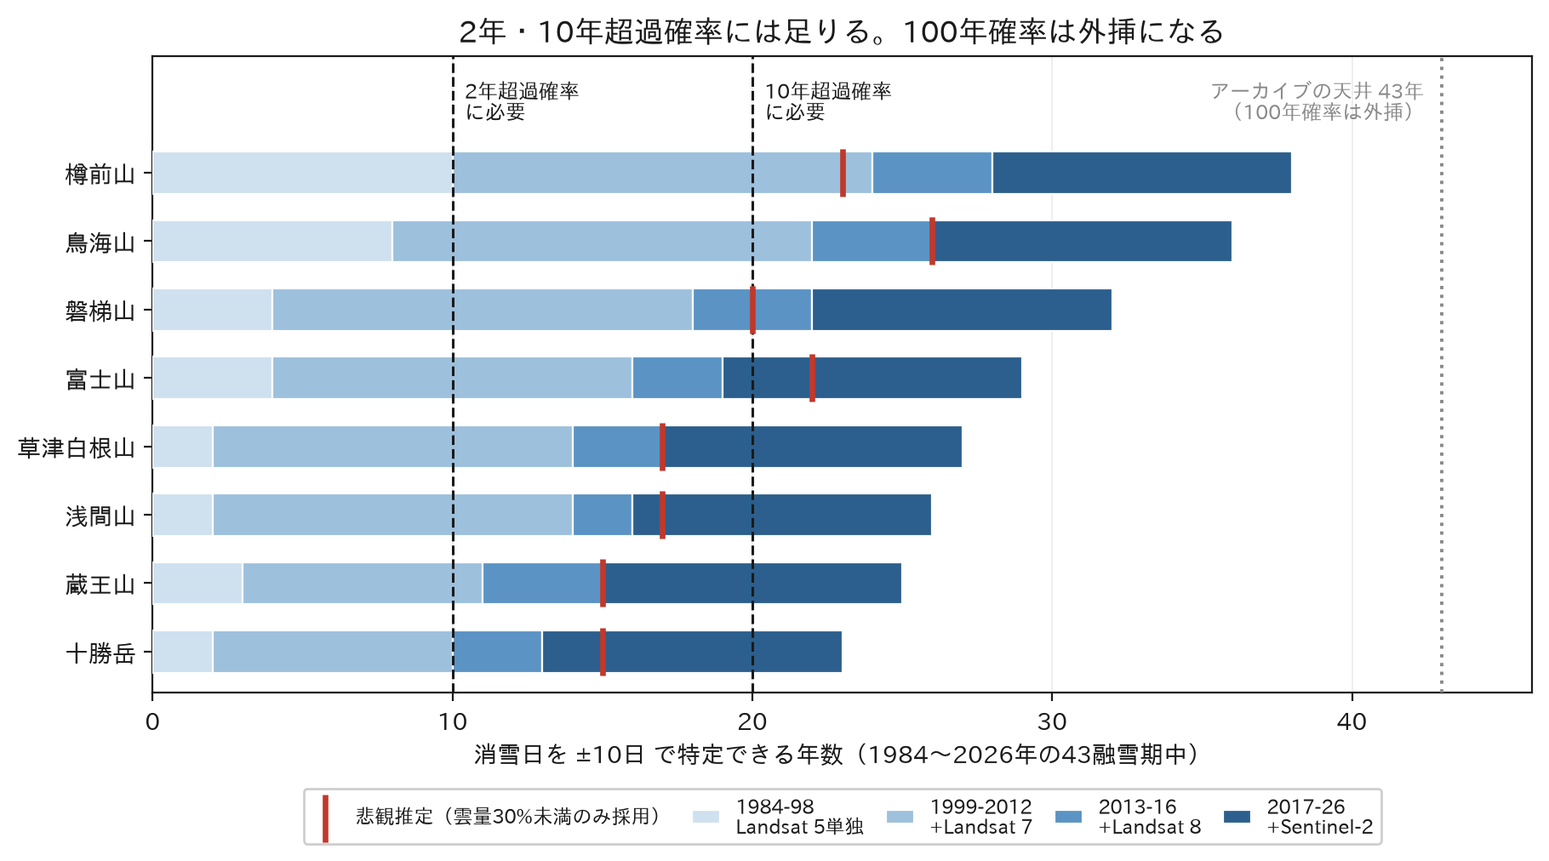
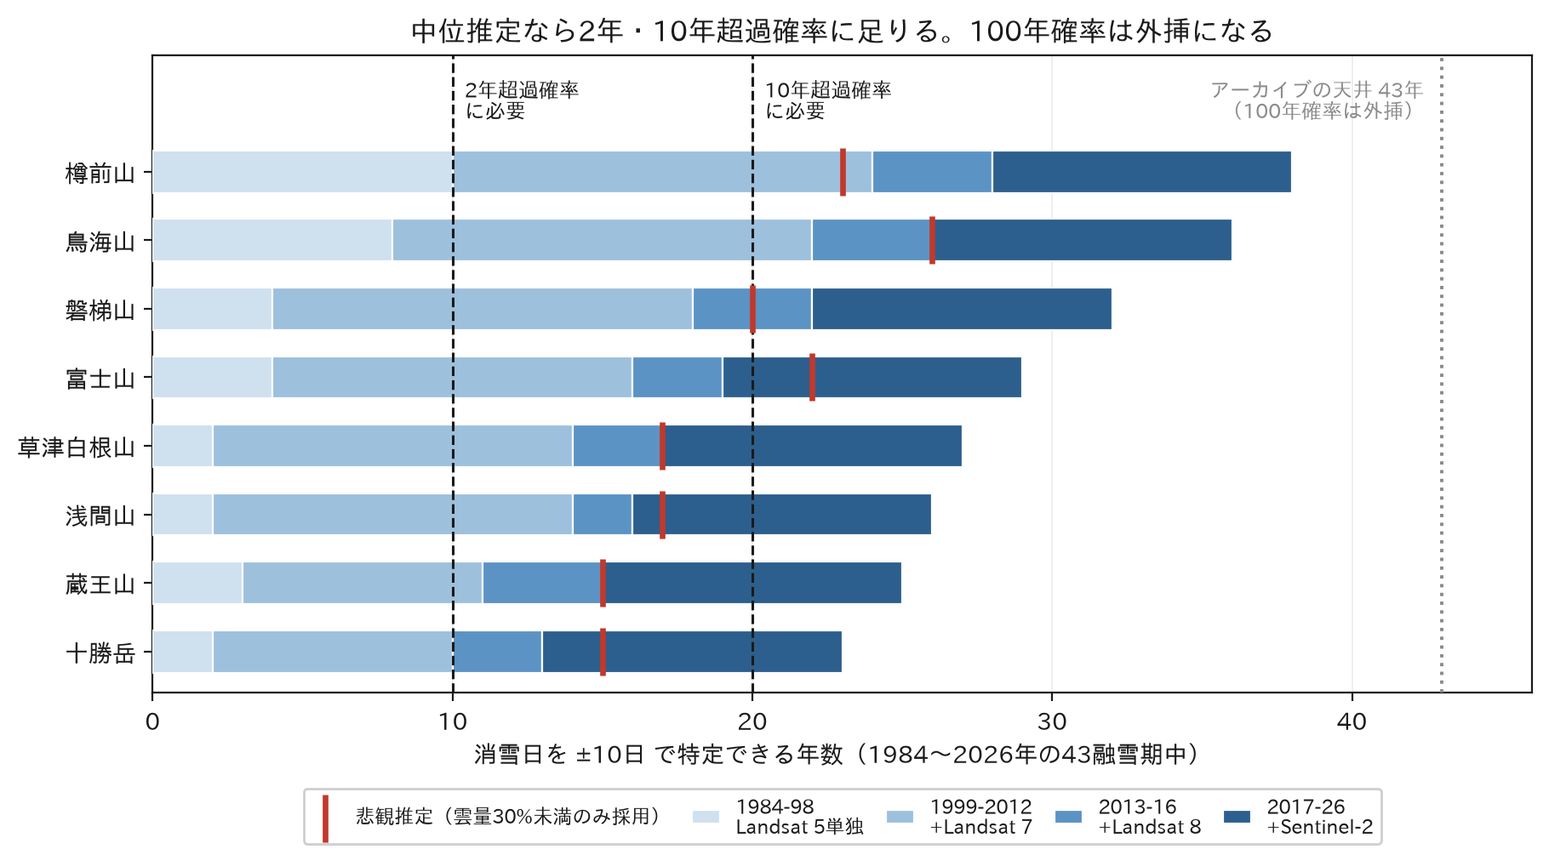
テーマ2 様式4: 第3サイクルの指摘4件に対応
図版が入った直後のサイクル。指摘4件はいずれも図が入ったことで新たに生じた
食い違いだった。

【中】
- T-26: ②が様式4のディレクション「衛星データを活用したサービスを創出する
  内容であること」に一語も応答していなかった（②本文に「衛星」「データ」
  「サービス」が0件。①③④⑤は含む）。冒頭を「応募例『平時の災害リスク評価』
  を衛星データで行う」に置換し、同設問内の3箇所を縮めて相殺（②は500字のまま）
- T-27: ②本文が「積雪水量」を語るのに図2の縦軸が「年最大積雪深」で、同じ
  「約29%」が両方に付いていた。これを追った結果、図2の実測点そのものが
  原典に無い派生値だったことが分かった——原典が標高別に載せているのは
  積雪水量 550/390/106 mm で、図はこれを実測密度で割って積雪深にしていたが、
  密度 252/419/401 kg/m³ と標高の対応順が原典で確認できていない（順を
  取り違えると1,500mの値が2.18mにも1.37mにもなる）。図2を積雪水量[mm]軸に
  作り直し、実測点は原典の値そのものにした。計画側は計画・報告書がともに
  使う密度350 kg/m³ で換算し、その旨を図中に注記。キャプションに量を明示し、
  01_検討経緯.md 8.5節の自白リストに「標高別は水量で書くこと」を追記した
- T-28: 提出直前チェック7が、質問4の回答が「算入する」で着地手順1（④の表1
  ごと落とす）を適用した状態では必ず不合格になった。チェック7に分岐を足し、
  図表の割当表の④の行にも同じ但し書きを添えた

【軽微】
- T-29: 図3の見出しが無条件の断定なのに、同じ図の悲観推定マーカーは8本中
  4本が20年を割っていた。「中位推定なら」を冠して再生成した

あわせて図2の外挿部を破線で明示し（実線が全域に引かれていて破線が隠れていた）、
密度換算の注記が凡例に重なっていたのを右下へ移した。

着地手順2の実測値を481→487字に更新（②の図表が31→37字になったため測り直した）。
現在の字数: ①491 ②500 ③491 ④492 ⑤494。

レビュー記録に第3サイクルの節と、このサイクルの学び（レビューアは原典を
精査しないので、指摘の当否と修正の内容は自分で確かめること）を追記した。

Claude-Session: https://claude.ai/code/session_01ByiR9fmzyGadXHEVGXwJpb

diff --git a/theme2_ライフライン復旧/poc/src/make_figures_t2.py b/theme2_ライフライン復旧/poc/src/make_figures_t2.py
@@ -100,26 +100,43 @@ def fig1():
 # 図2 山麓6観測所からの外挿と、火口高度の実測との食い違い
 # ============================================================
 def fig2():
+    """縦軸は積雪水量[mm]で統一する。
+
+    原典（防災科研×新潟大の共同研究報告書）が標高別に載せているのは**積雪水量**であり、
+    標高別の積雪深は載っていない。水量を密度で割って積雪深に直すこともできるが、
+    実測密度 252/419/401 kg/m³ と標高1,500/1,600/1,700m の対応順が原典で確認できて
+    いないため、その換算はしない（順を取り違えると点が上下に大きく動く）。
+    設問②の本文も「積雪水量」で書いてあるので、本文と図の量をここで一致させる。
+
+    計画側（回帰式・火口の想定値）は積雪深なので、密度350 kg/m³ で水量に換算する。
+    350は蔵王計画と報告書がともに使っている一律値（8.5節）。線形変換なので図の形は
+    変わらず、計画の土俵の上で比較していることになる。
+    """
+    RHO = 350.0    # kg/m³。計画・報告書がともに使う一律値。1m の雪 = 350mm の水
+
     # 蔵王計画 図2-21 の6観測所（標高m, 年最大積雪深cm）。8.5節で numpy.polyfit により
     # 回帰係数 y=0.2139x+8.5516（R²=0.767）を再現済み
     st = np.array([[38.9, 17], [86, 18], [152.5, 50], [245, 92], [265, 34], [525, 121]])
     a, b = 0.2139, 8.5516
 
-    # 防災科研×新潟大の現地測量（2023年3月9日）。標高別の積雪深[m]
-    uav = np.array([[1500, 1.37], [1600, 0.93], [1700, 0.42]])
-    basin_mean = 1.10          # 流域平均積雪深[m]（面積0.271km²）
-    plan_at_crater = 3.81      # 蔵王計画の火口高度の想定積雪深[m]
+    # 防災科研×新潟大の現地測量（2023年3月9日）。標高別の積雪水量[mm]＝原典の実測値そのもの
+    uav = np.array([[1500, 550], [1600, 390], [1700, 106]])
+    basin_mean = 1.10 * RHO        # 流域平均積雪深1.10m（面積0.271km²）→ 385mm
+    plan_at_crater = 3.81 * RHO    # 計画の火口高度の想定積雪深3.81m → 1,334mm
 
     fig, ax = plt.subplots(figsize=(8.2, 5.6))
     x = np.linspace(0, 1850, 200)
-    ax.plot(x, (a * x + b) / 100.0, color=BASE, lw=2.0, zorder=3,
+    # 回帰の範囲内は実線、その外（外挿）は破線。実線を全域に引くと破線が隠れる
+    inr, out = x <= 525, x >= 525
+    ax.plot(x[inr], (a * x[inr] + b) / 100.0 * RHO, color=BASE, lw=2.2, zorder=3,
             label="計画の回帰式（6観測所から）")
-    ax.plot(x[x > 525], (a * x[x > 525] + b) / 100.0, color=BASE, lw=2.0, ls="--", zorder=3)
+    ax.plot(x[out], (a * x[out] + b) / 100.0 * RHO, color=BASE, lw=2.0,
+            ls=(0, (6, 3)), zorder=3, label="同・火口高度への外挿")
     ax.axvspan(525, 1850, color=BASE, alpha=0.055, zorder=0)
-    ax.text(1190, 0.28, "回帰に使った観測所より上\n（約1,220mの外挿）",
+    ax.text(1190, 95, "回帰に使った観測所より上\n（約1,220mの外挿）",
             ha="center", fontsize=9, color=BASE)
 
-    ax.scatter(st[:, 0], st[:, 1] / 100.0, s=52, color=BASE, zorder=5,
+    ax.scatter(st[:, 0], st[:, 1] / 100.0 * RHO, s=52, color=BASE, zorder=5,
                label="回帰に使った気象庁6観測所（38.9〜525m）")
     ax.scatter(uav[:, 0], uav[:, 1], s=95, marker="D", color=ACCENT, zorder=6,
                label="火口高度の現地測量（標高別）")
@@ -136,11 +153,14 @@ def fig2():
 
     # 実測の傾きが逆であることを示す補助線
     ax.plot(uav[:, 0], uav[:, 1], color=ACCENT, lw=1.4, ls=":", zorder=5)
-    ax.text(1600, 1.02, "標高が上がるほど減る\n（強風と疎林化）", ha="center", va="top",
+    ax.text(1600, 355, "標高が上がるほど減る\n（強風と疎林化）", ha="center", va="top",
             fontsize=9.2, color=ACCENT)
 
-    ax.set_xlabel("標高 [m]"); ax.set_ylabel("年最大積雪深 [m]")
-    ax.set_xlim(-60, 1900); ax.set_ylim(0, 4.4)
+    ax.text(1880, 18, "計画側は密度350 kg/m³ で水量に換算（計画・報告書が使う一律値）",
+            fontsize=8.4, color=MUTED, ha="right", va="bottom")
+
+    ax.set_xlabel("標高 [m]"); ax.set_ylabel("年最大積雪水量 [mm]")
+    ax.set_xlim(-60, 1900); ax.set_ylim(0, 1540)
     ax.grid(alpha=0.25, lw=0.6)
     ax.legend(loc="upper left", fontsize=8.6, framealpha=0.95)
     ax.set_title("外挿の先に実測があり、直線から外れている", fontsize=12.5, fontweight="bold")
@@ -189,8 +209,10 @@ def fig3():
     ax.grid(axis="x", alpha=0.25, lw=0.6, zorder=0)
     ax.legend(loc="upper center", bbox_to_anchor=(0.5, -0.135), fontsize=8.4,
               ncol=5, framealpha=0.95, columnspacing=1.1, handlelength=1.4)
-    ax.set_title("2年・10年超過確率には足りる。100年確率は外挿になる",
-                 fontsize=12.5, fontweight="bold")
+    # 見出しは中位推定に対する結論であることを明示する。悲観推定では4火山が20年を割るので、
+    # 無条件の断定にすると同じ図の赤マーカーと食い違って見える
+    ax.set_title("中位推定なら2年・10年超過確率に足りる。100年確率は外挿になる",
+                 fontsize=12.0, fontweight="bold")
     fig.tight_layout()
     fig.savefig(os.path.join(_OUT, "t2_fig3_years.png"), dpi=200, bbox_inches="tight")
     plt.close(fig)

diff --git a/theme2_ライフライン復旧/12_提出版_様式4.md b/theme2_ライフライン復旧/12_提出版_様式4.md
@@ -26,19 +26,21 @@
 
 ## ２．課題の妥当性と解決への貢献度（本文500字／500字程度）
 
-本提案はテーマ2の応募例「平時の災害リスク評価」に当たる。守る対象は下流のインフラで、作り直すのはその設計外力である。
+本提案はテーマ2の応募例「平時の災害リスク評価」を衛星データで行う。守る対象は下流のインフラで、作り直すのはその設計外力である。
 
-融雪型火山泥流の計画対象量は、積雪水量に厳密に比例する。蔵王計画の算定過程を追うと、泥流総量は「0.4×融雪水量÷(0.4−渓床勾配係数)」に整理でき、公表8ケースの値を誤差0.44%以内で再現できる。融雪水量は熱で融かしうる量と雪の量の小さい方で決まり、全10ケースで後者が8〜14分の1と小さい。
+融雪型火山泥流の計画対象量は、積雪水量に厳密に比例する。蔵王計画の算定を追うと、泥流総量は「0.4×融雪水量÷(0.4−渓床勾配係数)」に整理でき、公表8ケースを誤差0.44%以内で再現できる。融雪水量は熱で融かしうる量と雪の量の小さい方で決まり、全10ケースで後者が8〜14分の1と小さい。
 
 その積雪水量が外挿で与えられている。蔵王計画は標高38.9〜525mの6観測所の回帰式を約1,220m上の火口へ延ばす。計画の図にある道路管理者の観測点（標高800〜1,100m）も回帰に使われず、直線より3〜4割低い。
 
 現地測量は外挿を否定する。防災科学技術研究所と新潟大学の共同研究報告書によれば、蔵王川源頭部で4冬期続けた観測で、積雪水量は標高1,300〜1,400mで最大となり、以高では強風と疎林化で減少した。流域平均は計画値の約29%である。
 
-この差は判断を変える。十勝岳では同じ噴火規模でも、積雪深54.6cmを境に「現況施設で処理可能」と「溢流・氾濫する」が入れ替わる。
+この差は判断を変える。十勝岳では同じ噴火規模でも、積雪深54.6cmを境に「現況施設で処理可能」と「溢流・氾濫する」が反転する。
 
-> ［図表1点］**作成済み** `poc/out/fig/t2_fig2_extrapolation.png`。蔵王計画の回帰式（6観測所・38.9〜525m）と外挿線に、火口高度の現地測量（標高別・流域平均）と計画が採った想定値を重ねた図。「外挿の先に実測があり、直線から外れている」ことを1枚で示す。道路管理者の観測点は原典の図から数値を読み取れていないため図には入れていない（本文の記述のみ）。
+> ［図表1点］**作成済み** `poc/out/fig/t2_fig2_extrapolation.png`。蔵王計画の回帰式（6観測所・38.9〜525m）と外挿線に、火口高度の現地測量（標高別・流域平均）と計画が採った想定値を重ねた図。「外挿の先に実測があり、直線から外れている」ことを1枚で示す。
+> **縦軸は本文と同じ積雪水量[mm]に統一してある。** 原典が標高別に載せているのは積雪水量（1,500/1,600/1,700mで550/390/106 mm）で、標高別の積雪深は載っていない。実測密度252/419/401 kg/m³と標高の対応順が原典で確認できないため、積雪深への換算はしていない。計画側（回帰式・想定値3.81m）は計画と報告書がともに使う密度350 kg/m³で水量に換算し、その旨を図中に注記した。
+> 道路管理者の観測点は原典の図から数値を読み取れていないため図には入れていない（本文の記述のみ）。
 
-図2 山麓6観測所からの標高外挿と、火口高度の実測との食い違い。
+図2 山麓6観測所からの標高外挿と、火口高度の実測との食い違い（積雪水量）。
 
 ## ３．衛星データ活用の有効性（本文491字／500字程度）
 
@@ -118,7 +120,7 @@
 | ① 提案の概要 | 図1 | 監視の全段と、各段の裏付け・限界 | **作成済み** `poc/out/fig/t2_fig1_chain.png` |
 | ② 課題の妥当性 | 図2 | 山麓6観測所からの外挿と火口高度の実測の食い違い | **作成済み** `poc/out/fig/t2_fig2_extrapolation.png` |
 | ③ 衛星データ活用の有効性 | 図3 | 消雪日を特定できる年数の実測（8火山・時代別） | **作成済み** `poc/out/fig/t2_fig3_years.png` |
-| ④ サービスの新規性 | 表1 | 火口周辺の積雪水量を得る手段の比較 | **作成済み**（本文中の表） |
+| ④ サービスの新規性 | 表1 | 火口周辺の積雪水量を得る手段の比較 | **作成済み**（本文中の表）。**質問4が「算入する」なら着地手順1で表1ごと落とし、④は図表なしになる** |
 | ⑤ 実用化による社会発展性 | 図4 | 想定ユーザー・予算の所在・事業化の二段階 | **作成済み** `poc/out/fig/t2_fig4_business.png` |
 
 図版は `poc/src/make_figures_t2.py` が生成する（依存 `matplotlib matplotlib-fontja numpy`、乱数なし＝再現可能）。
@@ -135,7 +137,7 @@
 | 設問 | 本文 | 図表・キャプション | 合算 |
 |---|---|---|---|
 | ① | 491 | 32 | 523 |
-| ② | 500 | 31 | 531 |
+| ② | 500 | 37 | 537 |
 | ③ | 491 | 29 | 520 |
 | ④ | 492 | 137（表1本体を含む） | **629** |
 | ⑤ | 494 | 23 | 517 |
@@ -144,10 +146,10 @@
 
 **回答が「図表の文字も算入する」の場合**: 合算が500字を超えるので削る。**削るのではなく置換して文が破断しないようにする**。
 
-以下の着地値は**手順を実際に適用して測った合算値**である（見込み値ではない）。全設問を適用すると ①479 ②481 ③494 ④492 ⑤496 で、すべて500字以内に収まる。
+以下の着地値は**手順を実際に適用して測った合算値**である（見込み値ではない）。全設問を適用すると ①479 ②487 ③494 ④492 ⑤496 で、すべて500字以内に収まる。
 
 1. **④**（超過が最も大きい）: **表1とそのキャプション行を両方とも落として図表なしにする。** 3列化では届かない（表本体を90字に減らしても 492＋90＋20＝602字）。両方落とすと**合算492字**で着地する（実測）。④の立証は本文の4手法の記述で足りる
-2. **②**: 「計画の図にある道路管理者の観測点（標高800〜1,100m）も回帰に使われず、直線より3〜4割低い。」を削る（外挿の否定は次段落の現地測量で足りる）。**合算481字**で着地（実測）
+2. **②**: 「計画の図にある道路管理者の観測点（標高800〜1,100m）も回帰に使われず、直線より3〜4割低い。」を削る（外挿の否定は次段落の現地測量で足りる）。**合算487字**で着地（実測）
 3. **③**: 「積雪の多い山域で検証例があり、新しいのは手法ではなく、これを火口周辺という誰も測っていない場所に、遡って当てる点である。」を「新しいのは手法ではなく、火口周辺という誰も測っていない場所に遡って当てる点である。」に置換し（−19字）、**あわせてキャプションを**「図3 消雪日を特定できる年数の実測（8火山・カタログ集計）。」→「図3 消雪日を特定できる年数の実測（8火山）。」に短縮する（−7字）。置換だけでは501字で1字超過するため、キャプション短縮を必ず併せること。**合算494字**で着地（実測）
 4. **①**: 「気象庁が積雪深を測る336地点の最高は1,292mで、火口より937〜2,916m低い。」を削る（同じ事実は④にある）。**合算479字**で着地（実測）
 5. **⑤**: 「緊急減災対策砂防計画の対象は29火山、うち積雪火山21座、火山災害警戒地域は50火山179市町村にわたる。」を「緊急減災対策砂防計画の対象は29火山、うち積雪火山21座である。」に**置換**する（削ると述語が消えて文が破断する）。**合算496字**で着地（実測）
@@ -198,6 +200,7 @@
    - (b) **転記後のWordでも各設問を再計測する**（`count_chars.py` と空白・改行の扱いが異なるため、原稿の値をそのまま信じない）
    - (c) 事務局照会の**質問4の回答が「算入する」だった場合は、図表とキャプションを含む合算で判定し、「回答別の着地」節の手順を先に適用してから (a)(b) をやり直す**
 7. 図表が各設問1点を超えていないこと（図と表は同じ枠）。**4図とも作成済みなので、①②③⑤に図1〜図4、④に表1が1点ずつ入っていること**（貼り忘れた設問はキャプション行も転記しない）
+   - **ただし6(c)で着地手順1を適用した場合、④は表1とキャプション行を両方落として図表なしになる。このときは①②③⑤の4点だけを確認すること**（この分岐を書かないと、着地を適用した状態でこのチェックが必ず不合格になる）
 8. 実施スケジュールが2026年10月〜2027年6月を月別で覆っていること
 9. Markdown記法（`**`、`>`、`|`、`#`）が残っていないこと
 10. 見出しの字数注記、`>` で始まる行、【提出時に削除】節が転記されていないこと

diff --git a/theme2_ライフライン復旧/review_t2_様式適合.md b/theme2_ライフライン復旧/review_t2_様式適合.md
@@ -13,7 +13,8 @@
 |---|---|---|---|---|
 | 第1 | 14件（T-1〜T-14） | 0 | 3 | 提出物の骨格が形式適合した |
 | 第2 | 11件（T-15〜T-25） | 0 | 1 | 着地手順が算術的に閉じた |
-| 第3 | — | — | — | （実施中） |
+| 第3 | 4件（T-26〜T-29） | 0 | 0 | 図版と本文の量が一致した |
+| 第4 | — | — | — | （実施中） |
 
 ---
 
@@ -61,6 +62,24 @@
 - **T-25** 機械チェック2が存在しない記入欄を求めていた（提案名欄は様式1にしかない）
 
 ---
+
+## 第3サイクル T-26〜T-29（全数対応済み）
+
+図版4点が入った直後のサイクル。**指摘4件はいずれも「図が入ったことで新たに生じた食い違い」**だった。
+
+【中】
+- **T-26** ②が様式4のディレクション「衛星データを活用したサービスを創出する内容であること」に一語も応答していなかった（②本文に「衛星」「データ」「サービス」が0件）。①③④⑤は該当語を含んでおり②だけが欠けていた。第1サイクルT-1は「要項のテーマの語への接続」で別軸なので再指摘ではない → 冒頭を「応募例『平時の災害リスク評価』**を衛星データで行う**」に置換（+5字）し、同設問内で「算定過程を追うと」→「算定を追うと」（−2）、「公表8ケースの値を」→「公表8ケースを」（−2）、「が入れ替わる」→「が反転する」（−1）で相殺。②は500字のまま
+- **T-27** ②本文が「積雪水量」を語るのに図2の縦軸が「年最大積雪深」で、同じ「約29%」が両方に付いていた。**この指摘を追った結果、図2の実測点そのものが原典に無い派生値だったことが分かった**——原典が標高別に載せているのは積雪水量550/390/106 mmで、図はこれを実測密度で割って積雪深にしていたが、密度252/419/401 kg/m³と標高の対応順が原典で確認できていない（順を取り違えると1,500mの値が2.18mにも1.37mにもなる）。**図2を積雪水量[mm]軸に作り直し、実測点は原典の値そのものにした。** 計画側（回帰式・想定値3.81m）は計画・報告書がともに使う密度350 kg/m³で換算し、その旨を図中に注記。キャプションにも「（積雪水量）」を追加。あわせて `01_検討経緯.md` 8.5節の自白リストに「標高別は水量で書くこと」を追記した
+- **T-28** 提出直前チェック7が、質問4の回答が「算入する」で着地手順1（④の表1ごと落とす）を適用した状態では必ず不合格になった。第1サイクルT-9・T-10で潰した「必ず不合格になるチェック」の再発 → チェック7に分岐を書き足し、「図表の割当」表の④の行にも同じ但し書きを添えた
+
+【軽微】
+- **T-29** 図3の見出し「2年・10年超過確率には足りる」が無条件の断定なのに、同じ図の悲観推定マーカーは8本中4本が20年を割っていた → 見出しを「**中位推定なら**2年・10年超過確率に足りる」に変えて再生成した
+
+字数への影響: ②の図表が31→37字になったので、着地手順2の実測値を481→487字に更新した（本文450＋図表37で測り直し）。
+
+### このサイクルの学び
+
+**図版を入れると、本文と図の間に新しい食い違いが生まれる。** 4件中3件（T-26を除く全件）がそれで、図が無かった第1・第2サイクルでは原理的に出得なかった指摘である。とくにT-27は、レビューアの指摘（本文と図で量が違う）を追ったら**その下に別の問題（図の値が原典に無い派生値）が埋まっていた**——指摘をそのまま実装せず、原典に当たり直したから見つかった。**レビューアは原典を精査しないので、指摘の当否と修正の内容は自分で確かめること。**
 
 ## サイクル外の変更（レビュー指摘ではないが、次のサイクルが前提にすべき事実）
 

diff --git a/theme2_ライフライン復旧/01_検討経緯.md b/theme2_ライフライン復旧/01_検討経緯.md
@@ -715,6 +715,7 @@ Copernicus Marine のグローバルSDB（2025年11月）、電中研SS25001（2
 - UAV測量域 0.271km² は、計画の融雪範囲（水蒸気爆発0.45／マグマ噴火0.93km²）の**60%／29%**にすぎない。**小さい面積の平均値を大きい面積に適用している**
 - 平均1.1mは中央値0.48m・最頻値0.28mの**強く歪んだ分布の平均**で、谷の吹き溜まり（最大9.83m）が押し上げている。面積按分の仕方で値が動く
 - 計画も報告書も水量換算に一律350kg/m³を使うが、実測は地表被覆で275〜502kg/m³
+- **標高別に原典にあるのは積雪水量（1,500/1,600/1,700mで550/390/106 mm）だけで、標高別の積雪深は無い。** 水量を実測密度252/419/401 kg/m³で割れば積雪深になるが、**密度と標高の対応順が原典で確認できていない**（順を取り違えると1,500mの積雪深が2.18mにも1.37mにもなる）。**図や本文で標高別の値を出すときは積雪水量で書くこと**——提出物の図2は当初これを積雪深に換算して描いており、対応順を仮定した派生値になっていたので水量軸に直した（第3サイクル T-27）
 - 引用時は「計画値の**約29%**」と書くこと（報告書の要旨は「約30%少ない」と誤記しているが、結論と表3は「計画の30%」）
 
 #### 競合として触れておくべき先行
